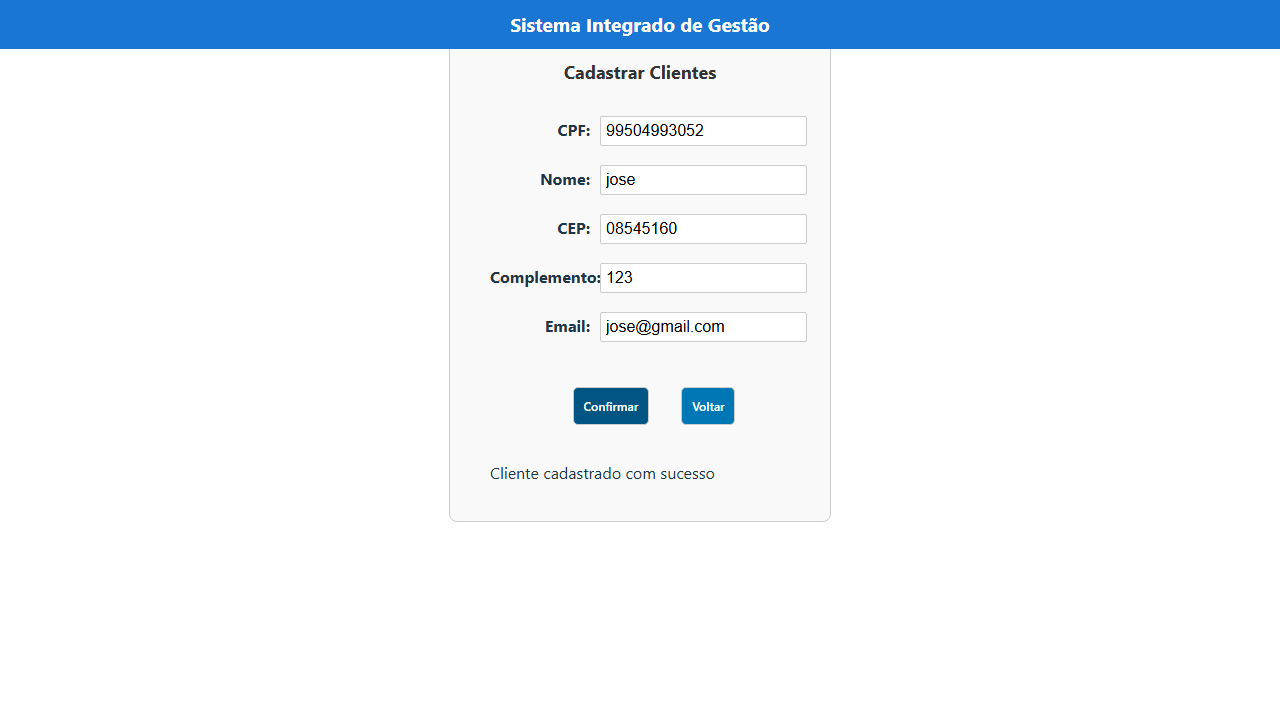
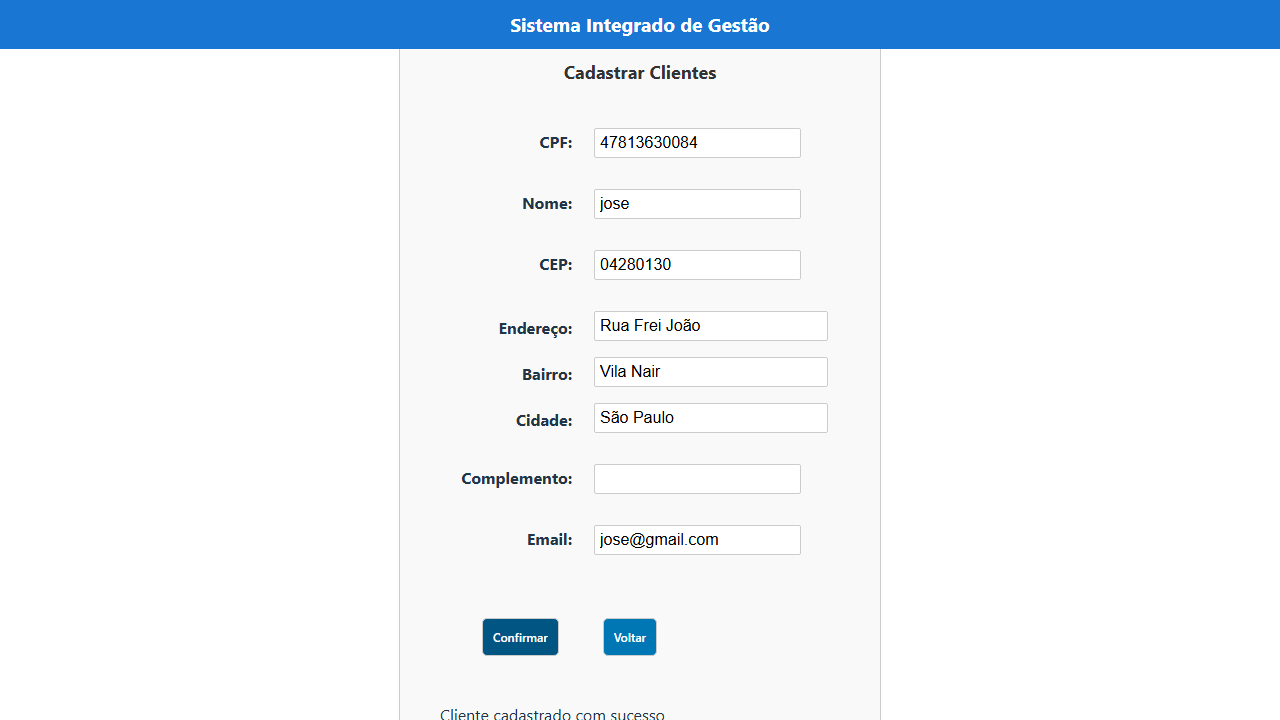
teste - configuracao para executar o build

diff --git a/cliente-backv2/src/test/java/com/fatec/cliente_backv2/view/Req09CadastrarClienteTests.java b/cliente-backv2/src/test/java/com/fatec/cliente_backv2/view/Req09CadastrarClienteTests.java
@@ -14,11 +14,11 @@ public class Req09CadastrarClienteTests {
     page.navigate("http://localhost:5173/");
     page.getByRole(AriaRole.LINK, new Page.GetByRoleOptions().setName("Cadastrar cliente")).click();
     page.getByTestId("cpf").click();
-    page.getByTestId("cpf").fill("99504993052");
+    page.getByTestId("cpf").fill("47813630084");
     page.getByTestId("nome").click();
     page.getByTestId("nome").fill("jose");
     page.getByTestId("nome").press("Tab");
-    page.getByTestId("cep").fill("08545160");
+    page.getByTestId("cep").fill("04280130");
     page.getByTestId("complemento").click();
     page.getByTestId("complemento").fill("123");
     page.getByTestId("email").click();

diff --git a/cliente-backv2/src/test/java/com/fatec/cliente_backv2/controller/Req09CadastrarClienteTests.java b/cliente-backv2/src/test/java/com/fatec/cliente_backv2/controller/Req09CadastrarClienteTests.java
@@ -48,7 +48,7 @@ class Req09CadastrarClienteTests {
 		// ********************************************************************
 
 		// Caminho feliz
-		ClienteDTO clienteNovo = new ClienteDTO("80983098000", "Jose da Silva", "01310-100", "Av. Paulista", "Bela Vista", "Sao Paulo","123", "jose@gmail.com");
+		ClienteDTO clienteNovo = new ClienteDTO("80983098000", "Jose da Silva", "01310000", "Av. Paulista", "Bela Vista", "Sao Paulo","123", "jose@gmail.com");
 
 		// Empacota a requisicao HTTP
 		HttpEntity<String> request = createPostRequest(clienteNovo);

diff --git a/cliente-backv2/src/test/java/com/fatec/cliente_backv2/servico/Req09CadastrarClienteTests.java b/cliente-backv2/src/test/java/com/fatec/cliente_backv2/servico/Req09CadastrarClienteTests.java
@@ -24,7 +24,7 @@ class Req09CadastrarClienteTests {
 	ClienteService service;
 	ClienteDTO cliente;
 	Cliente c = null;
-	private static final String CPF = "73056284090";
+	private static final String CPF = "48400451007";
 	private static final String CEP = "01310000";
 	@BeforeEach //simula a entrada de usuario pela interface
 	public void preRequisitoDeTeste() {

diff --git a/cliente-backv2/src/main/java/com/fatec/cliente_backv2/DataLoader.java b/cliente-backv2/src/main/java/com/fatec/cliente_backv2/DataLoader.java
@@ -35,7 +35,7 @@ public class DataLoader implements CommandLineRunner {
      * (1) No teste do backend utilizar o dataset1.csv
      * (2) No teste do frontend utilizar o dataset100.csv
      */
-    @Value("classpath:dataset100.csv")
+    @Value("classpath:dataset1.csv")
     private Resource dataFile;
 
     /**
